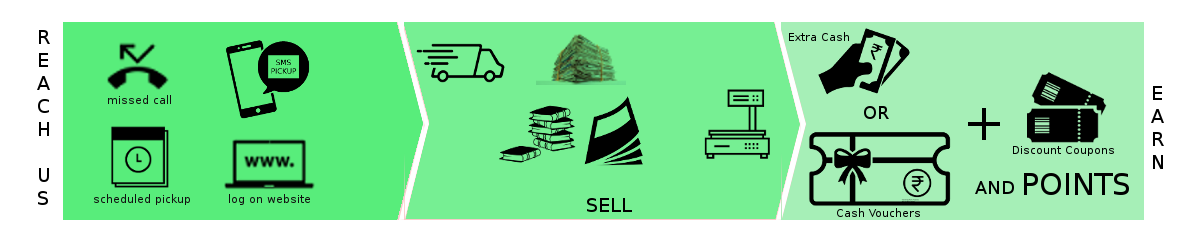
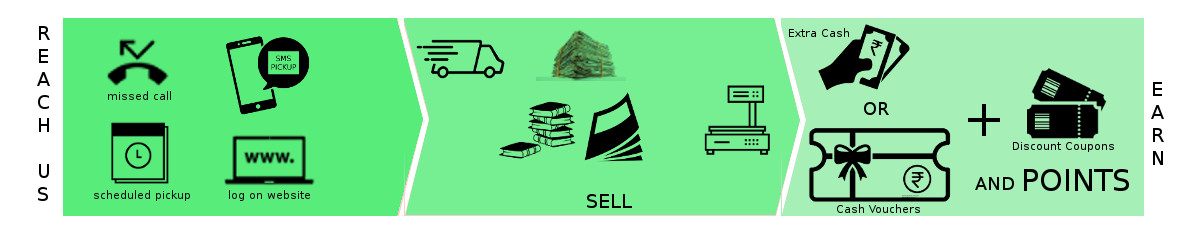
Modernizing the landing page.

diff --git a/index.html b/index.html
@@ -60,10 +60,10 @@
                         <a href="#page-top"></a>
                     </li>
 					<li class="page-scroll" data-toggle="modal" data-target=".bs-register-modal-lg">
-                        <a href="#"><span class="fa fa-fw fa-user"></span>&nbsp;<strong>Register</strong></a>
+                        <a href="#"><span style="font-size:20px;" class="fa fa-fw fa-user"></span>&nbsp;<strong style="font-size:20px;">Register</strong></a>
                     </li>
 					<li class="page-scroll" data-toggle="modal" data-target=".bs-login-modal-lg">
-                        <a href="#"><span class="fa fa-fw fa-key"></span>&nbsp;<strong>Login</strong></a>
+                        <a href="#"><span style="font-size:20px;" class="fa fa-fw fa-key"></span>&nbsp;<strong  style="font-size:20px;">Login</strong></a>
                     </li>
                 </ul>
             </div>
@@ -117,7 +117,7 @@
         			-->
         			<div class="text-center" style="border-radius:5px;border:0px solid red;background-color:white;padding:1%;margin:5%">
         				<div>
-        					<h4 class="text-primary text-uppercase"><i>Get More on every consecutive deal</i></h4>
+        					<h3 class="text-primary"><i>Get more on every consecutive deal !!</i></h4>
         				</div>
 	        			<div style="display:flex;border:0px solid black;">
 	        				<div style="font-size:20px;vertical-align:middle" class="center-block"><span class="fa fa-rupee text-important">&nbsp;</span></div>
@@ -232,12 +232,21 @@
 		</div>
     </section>
     <section style="background-color:#F6EDED;background-image:url('img/doodle.png');">
-        <div class="container">
+        <div class="container visible-lg visible-md">
 			<div class="row text-center"><h3>How it Works?</h3><h4><span class="glyphicon glyphicon-chevron-down"></span></h4></div>
 			<div class="row">&nbsp;</div>
 			<div class="row text-center">
         		<div class="col-md-12" style="border:0px solid grey;margin-right:1%;">
         			<img src="img/HowItWorks_2.png" class="img-responsive">
+        		</div>
+			</div>
+		</div>
+		<div class="container visible-sm visible-xs">
+			<div class="row text-center"><h3>How it Works?</h3><h4><span class="glyphicon glyphicon-chevron-down"></span></h4></div>
+			<div class="row">&nbsp;</div>
+			<div class="row text-center">
+        		<div class="col-md-12" style="border:0px solid grey;margin-right:1%;">
+        			<img src="img/HowItWorks_SmallScreens.png" class="img-responsive" style="width:100%">
         		</div>
 			</div>
 		</div>
